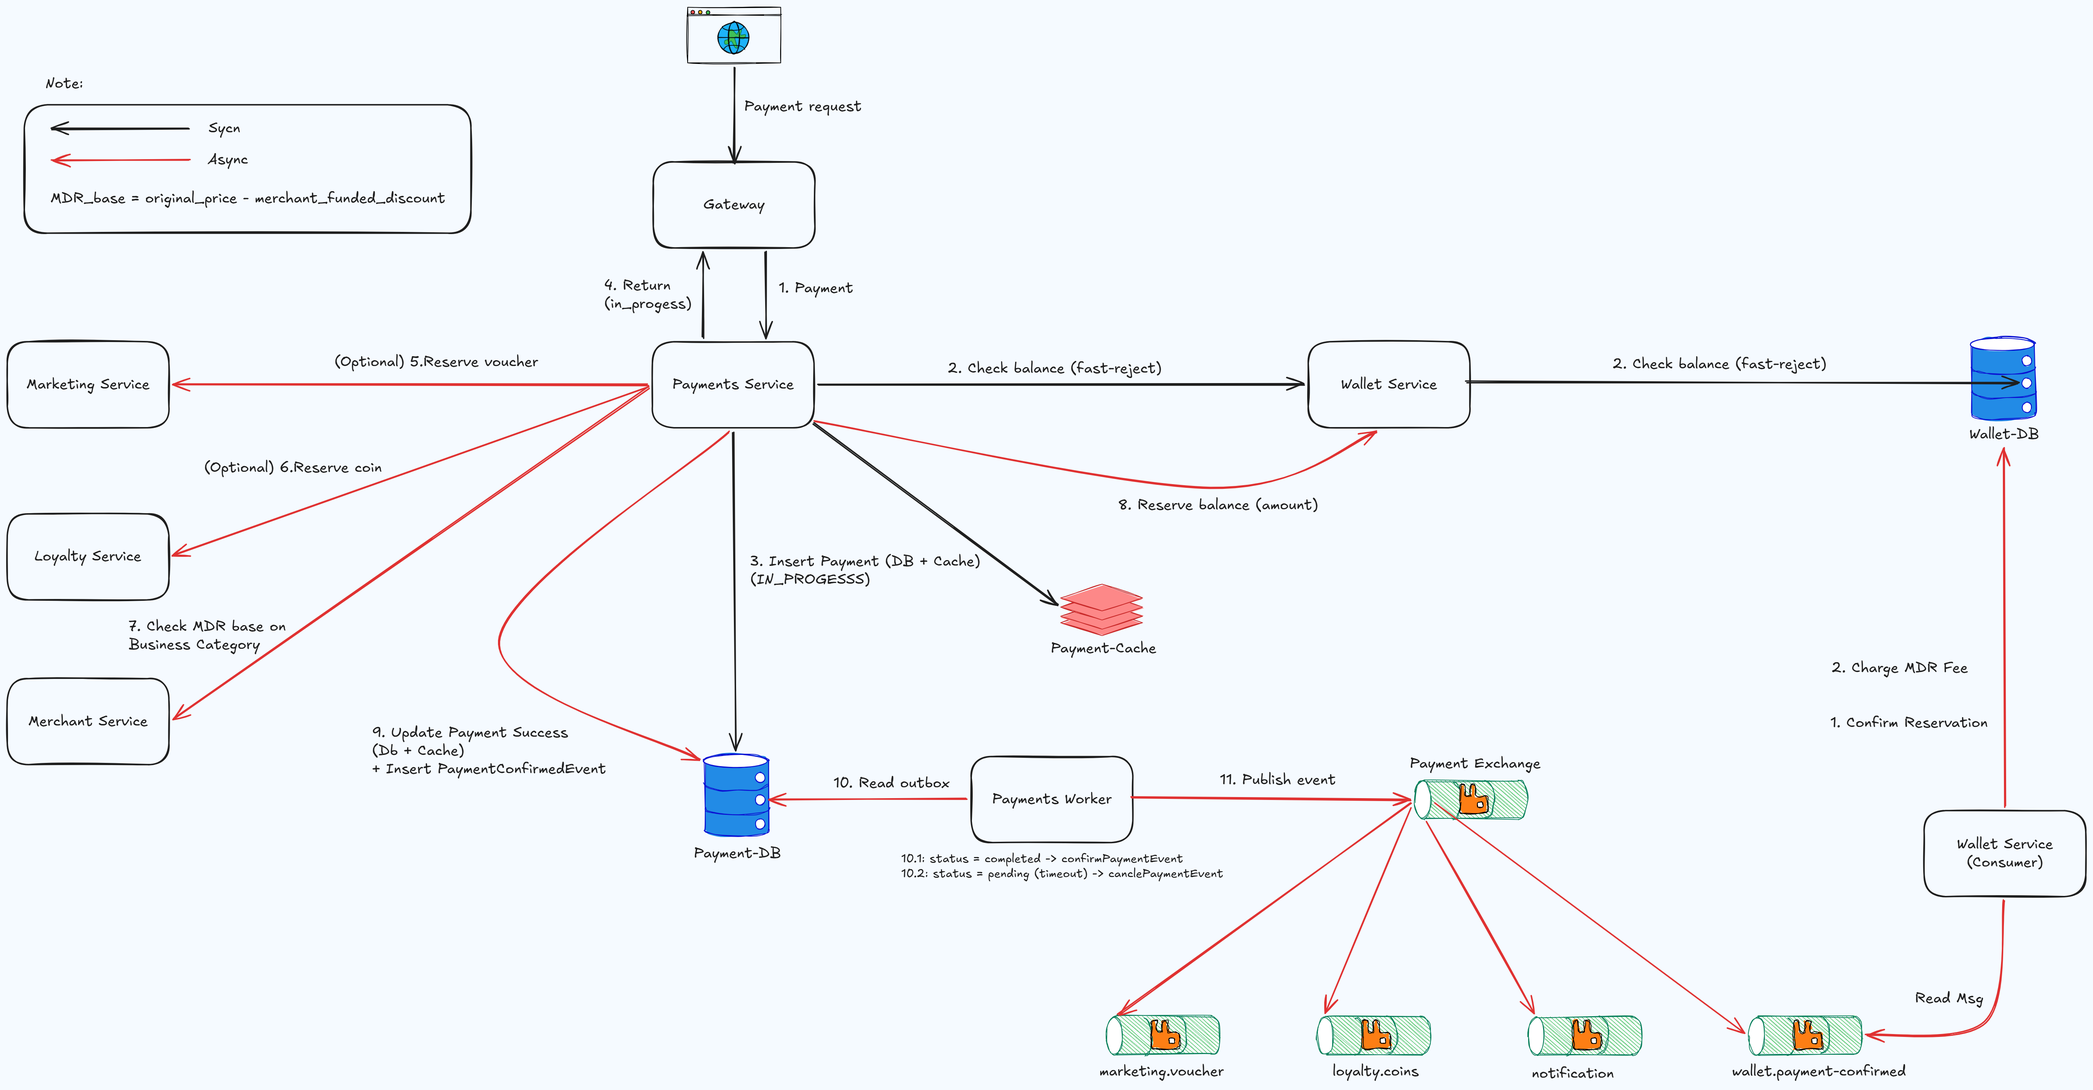
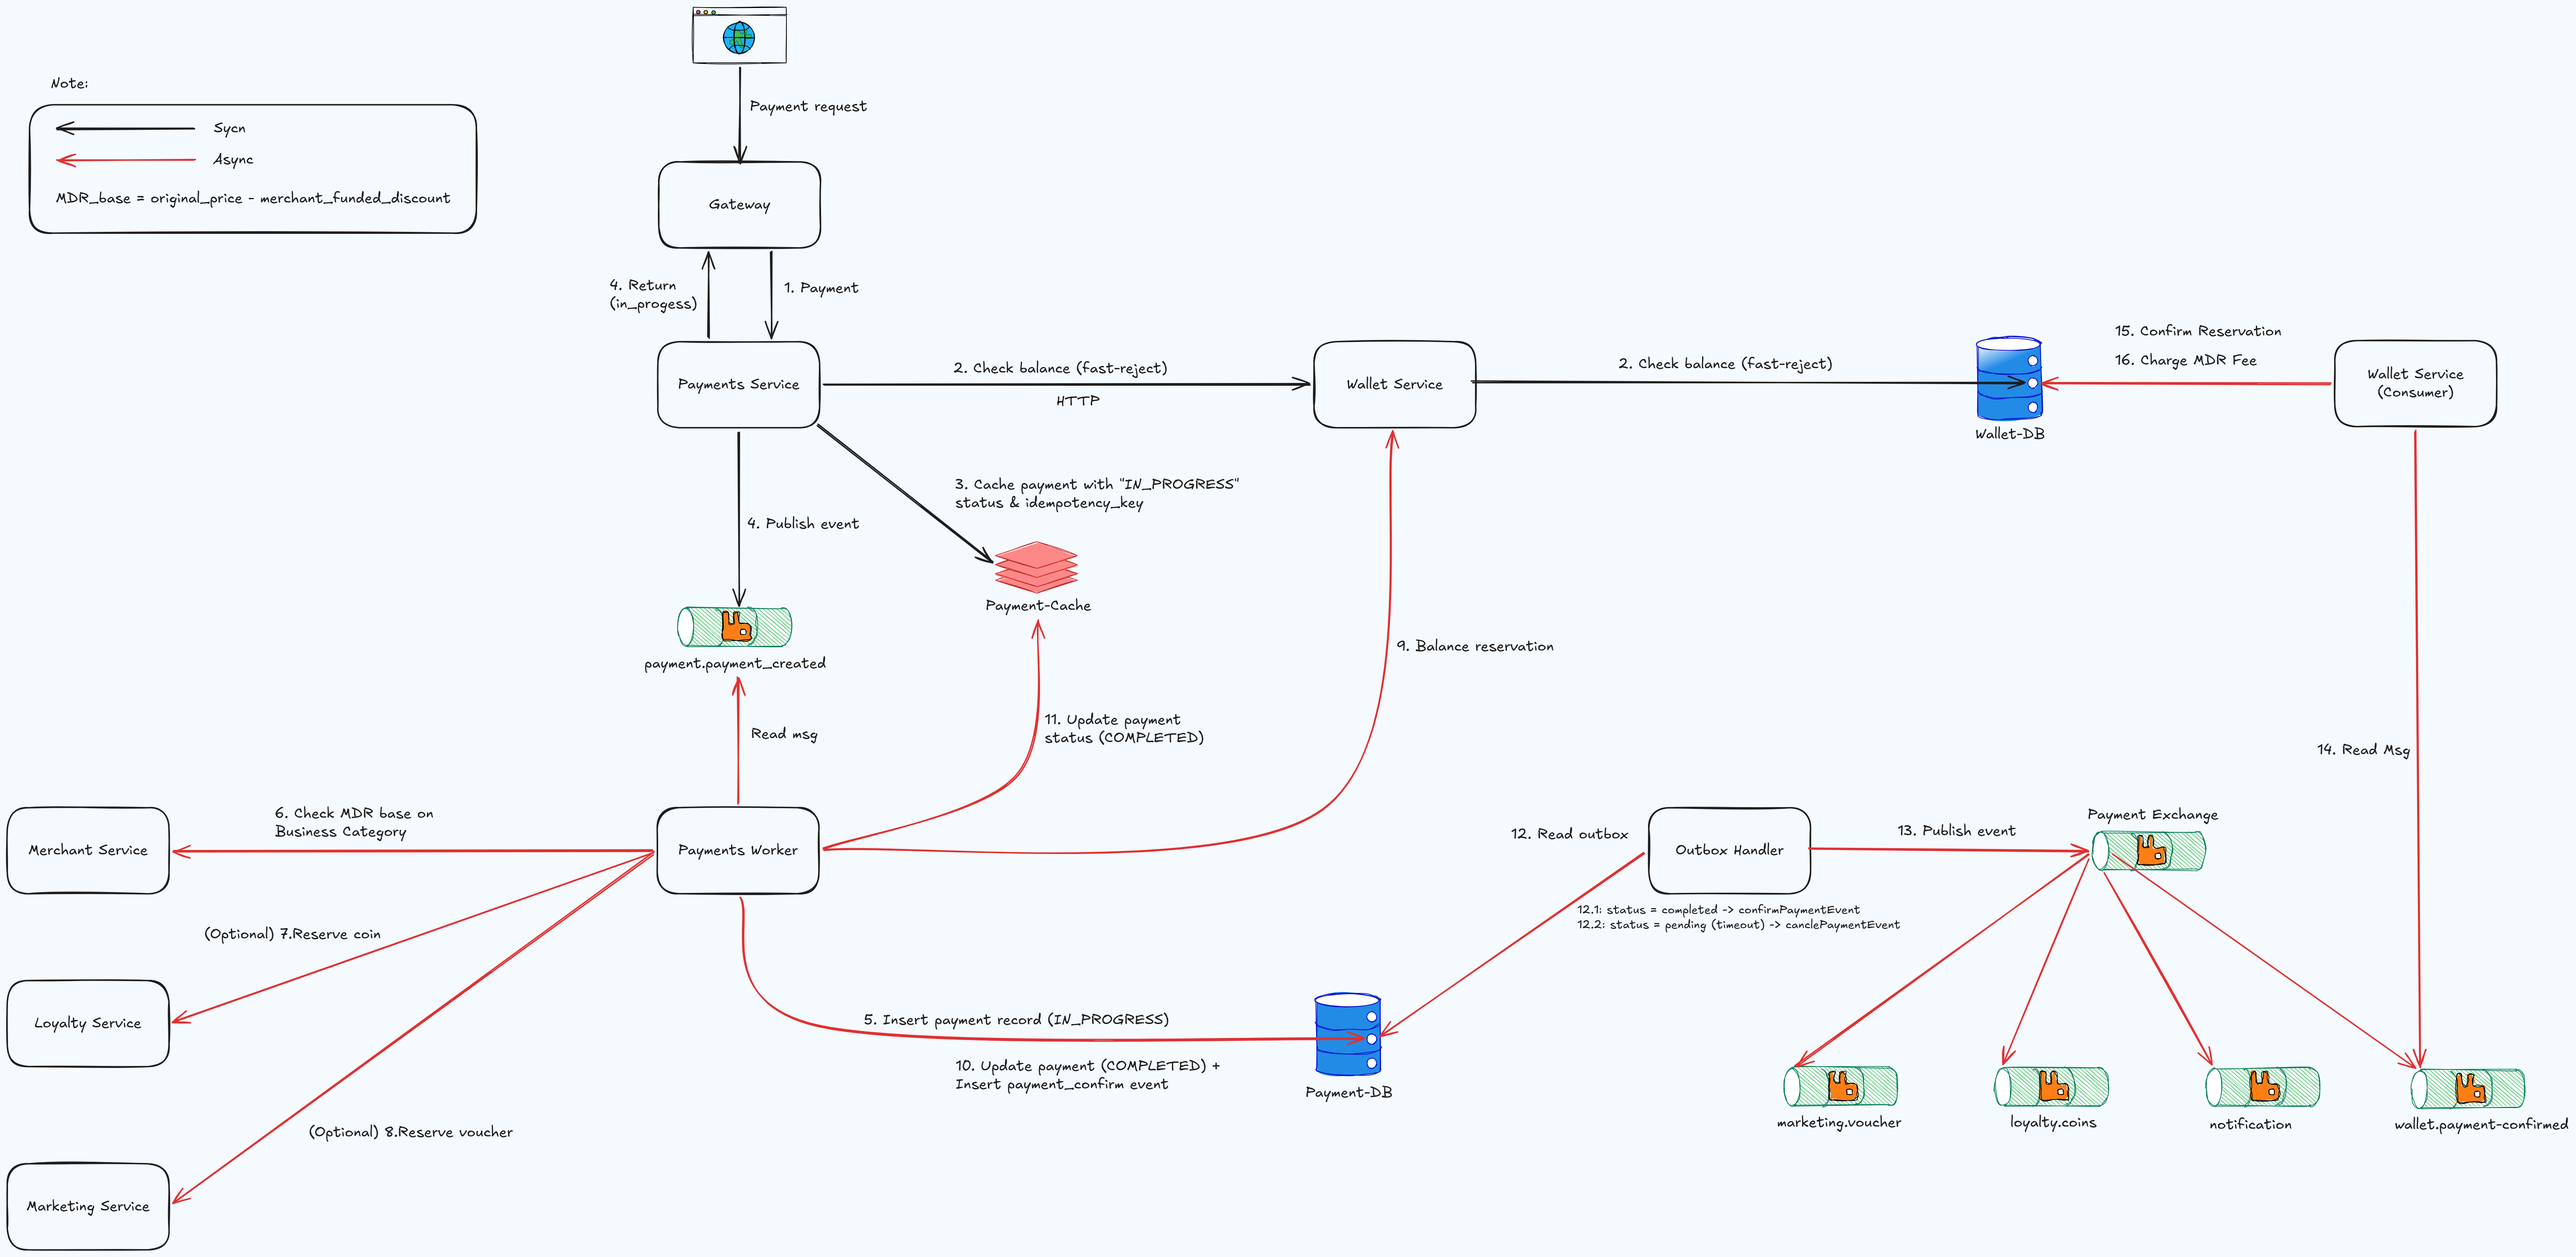
docs(README): Update payment flow assest & add run load-test command

diff --git a/scripts/k6/load-test.js b/scripts/k6/load-test.js
@@ -64,7 +64,7 @@ export default function () {
 
 export function handleSummary(data) {
   return {
-    "payment_summary.html": htmlReport(data),
+    "payment_load_test_summary.html": htmlReport(data),
     stdout: textSummary(data, { indent: " ", enableColors: true }),
   };
 }

diff --git a/README.md b/README.md
@@ -87,6 +87,12 @@ scripts\dev-up.bat
 ./scripts/dev-up.sh
 ```
 
+K6 load testing script:
+```bash
+k6 run --out web-dashboard=open scripts\k6\load-test.js
+```
+
+
 ---
 
 ## Endpoints
